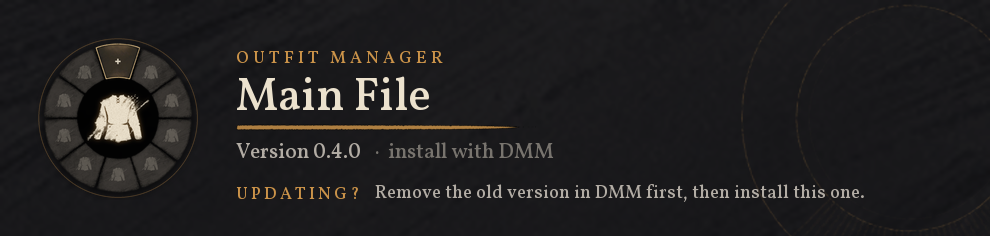
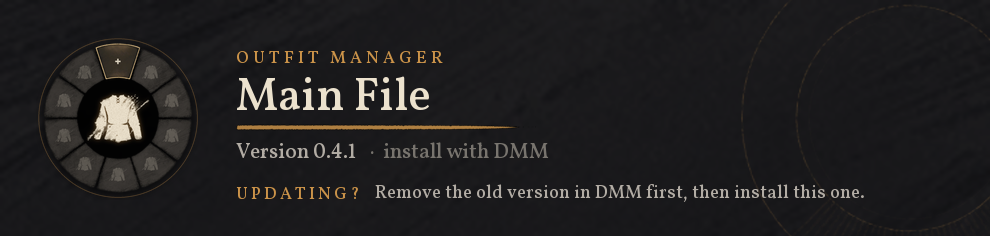
Outfit Manager 0.4.1: character-switch visibility fix, crossed weapons, loss check
Source synced from the 0.4.1 source zip, CHANGELOG entry, file cards for 0.4.1.

Changed region(s): [[0.3333, 0.5932, 0.5758, 0.6822]]

diff --git a/src/outfit_manager.cpp b/src/outfit_manager.cpp
@@ -1140,6 +1140,7 @@ bool in_depth(U64 self)
 
 void save_outfits();
 void publish_looks(const Store& s); // (Appearance)
+U16 current_character(); // (the controlled character: below)
 void mark_worn(int index);
 extern bool g_stash;
 std::atomic<U32> g_peek_key{0};           // the Outfit Arc's key (a virtual-key code; 0 = Off)
@@ -1785,13 +1786,17 @@ void apply_outfit_slots(U64 self, U32 only = kOutfitSlots)
     U32 visible = visible_slots();
     if (only >= kOutfitSlots) { // (the whole wheel)
         g_applied_visible = visible;
-        if (int w = find_worn_outfit(self); w != g_worn_outfit) {
+        // (during a character switch the worn gear is already the new character's while the list is still the old
+        // one's: comparing them would read as "a new set" and drop the old character's looks, 2026-11-06)
+        U16 now_char = current_character();
+        bool same_char = now_char == kNoCharacter || g_character == kNoCharacter || now_char == g_character;
+        if (int w = same_char ? find_worn_outfit(self) : g_worn_outfit; w != g_worn_outfit) {
             LOG("worn outfit: %d -> %d", g_worn_outfit, w);
             g_worn_outfit = w;
             g_worn_changed = true;
             if (w >= 0) mark_worn(w); // (put together by hand: its looks apply too; none worn keeps the last loaded)
         }
-        update_plus_icon(self);
+        if (same_char) update_plus_icon(self);
         refresh_missing(self);
         U64 body = rp(rp(rp(self + kOffRootBodies) + tab * 8ull) + 8);
         bool list_ok = body && is_element(body) && swap_class(body, g_list_class, numbered("om-list-%u", visible));
@@ -3268,6 +3273,7 @@ void update_plus_icon(U64 self)
     g_plus_icon.clear();
     g_amber = false;
     if (g_worn_outfit >= 0) return;
+    if (U16 ch = current_character(); ch != kNoCharacter && g_character != kNoCharacter && ch != g_character) return; // (switching)
     WornRaw w[kWornMax];
     int n = read_worn(self, w, kWornMax);
     if (int a = anchor_outfit(); a >= 0) {
@@ -3321,18 +3327,44 @@ bool snapshot(U64 self, Outfit& o)
     return true;
 }
 
+// The two hands' weapon slots (equipment-0: MainWeapon_*_R, equipment-1: MainWeapon_*_L). Two one-handed weapons worn
+// in each other's hands count as the outfit's (2026-11-06, a player's log: the game refuses to take either off -
+// "no items available to be equipped after removal" - so a load could never swap them back; every load ended 18 of 20
+// and the outfit showed as modified).
+constexpr U16 kHandR = 0, kHandL = 1;
+
+// Are slot's (a hand) and the other hand's worn weapons the outfit's, crossed?
+bool hands_crossed(const Outfit& o, const WornRaw* w, int n, U16 slot)
+{
+    if (slot != kHandR && slot != kHandL) return false;
+    U16 other = slot == kHandR ? kHandL : kHandR;
+    const WornRaw *ws = nullptr, *wo = nullptr;
+    for (int k = 0; k < n; ++k) {
+        if (w[k].slot == slot) ws = &w[k];
+        if (w[k].slot == other) wo = &w[k];
+    }
+    const OutfitItem *ts = outfit_piece(o, slot), *to = outfit_piece(o, other);
+    return ws && wo && ts && to && ws->key != 0xFFFF && wo->key != 0xFFFF && ts->uid != to->uid &&
+           ws->uid == to->uid && ws->key == to->key && wo->uid == ts->uid && wo->key == ts->key;
+}
+
 // The same pieces in the same slots (by uid: a duplicate of a piece is another piece). The weapon slots count only
-// when both load weapons (an outfit set to Leave, or saved before weapons, matches on its armour).
+// when both load weapons (an outfit set to Leave, or saved before weapons, matches on its armour). The two hands'
+// weapons also match crossed (hands_crossed).
 bool same_pieces(const Outfit& a, const Outfit& b)
 {
     bool weapons = uses_weapons(a) && uses_weapons(b);
-    auto pieces = [&](const Outfit& o) {
+    auto pieces = [&](const Outfit& o, bool swap) {
         std::vector<std::pair<U16, U64>> v;
-        for (const OutfitItem& it : o.items)
-            if (weapons || !is_weapon_slot(it.slot)) v.push_back({it.slot, it.uid});
+        for (const OutfitItem& it : o.items) {
+            if (!weapons && is_weapon_slot(it.slot)) continue;
+            U16 sl = swap && it.slot == kHandR ? kHandL : swap && it.slot == kHandL ? kHandR : it.slot;
+            v.push_back({sl, it.uid});
+        }
+        std::sort(v.begin(), v.end());
         return v;
     };
-    return pieces(a) == pieces(b);
+    return pieces(a, false) == pieces(b, false) || (weapons && pieces(a, false) == pieces(b, true));
 }
 
 // The saved outfit whose pieces are the worn ones, or -1.
@@ -4552,6 +4584,7 @@ bool verify_loading(U64 self, const Outfit& o, const std::vector<U16>& leave, bo
         ++counted;
         const OutfitItem* t = outfit_piece(o, w[i].slot);
         bool ok = t ? w[i].key == t->key && w[i].uid == t->uid : w[i].key == 0xFFFF;
+        ok |= hands_crossed(o, w, n, w[i].slot); // (its weapons in each other's hands: as worn)
         match += ok;
         if (!ok) {
             char b[128];
@@ -4578,13 +4611,21 @@ struct DeferredEquip {
     std::string from; // whose it was
     bool held = false; // refused while another piece held its slot: put on once the game lets go of the slot
 };
+// A worn piece a load takes off or replaces: after the load it must still be worn or in a bag (lost_check).
+struct LeavingPiece {
+    U64 uid;
+    U16 key;
+    U16 slot;
+};
 struct AsyncLoad {
     std::string outfit; // checked: the list may change meanwhile
     std::vector<U16> leave;
     std::vector<DeferredEquip> equips;
     U64 started = 0;
     bool active = false;
+    std::vector<LeavingPiece> leaving;
 };
+void lost_check(U64 self, const std::string& outfit, const std::vector<LeavingPiece>& leaving); // (below)
 AsyncLoad g_async;
 struct Outfit;
 void stash_pieces(U64 self, const Outfit* loaded); // (when a load is done)
@@ -4922,6 +4963,7 @@ void load_outfit(U64 self, U32 index, const std::vector<U16>& leave = {}, const 
     look_hold(true); // (until the model swaps: the old pieces keep their looks, the new ones hide at once)
     mark_worn(static_cast<int>(index)); // (its looks: each piece as soon as it is on)
     std::vector<LoadStep> off, on;
+    std::vector<LeavingPiece> leaving; // the worn pieces this load replaces or takes off (must still be owned after)
     std::set<U16> keep_slots; // (slots the game refuses to empty: asking only brings its error message and a wait)
     {
         std::lock_guard<std::mutex> keys(g_keys_mu);
@@ -4938,6 +4980,10 @@ void load_outfit(U64 self, U32 index, const std::vector<U16>& leave = {}, const 
             t ? t->key : 0xFFFF, t ? item_name(t->key).c_str() : "", t ? t->uid : 0,
             kept ? " (a taken piece comes here)" : left ? " (outfit piece unavailable)" : "");
         if (kept || (worn && t && w[i].uid == t->uid && w[i].key == t->key)) continue;
+        if (hands_crossed(o, w, n, w[i].slot)) { // (its weapons, in each other's hands: left as they are)
+            LOG("  equipment-%u: the outfit's weapon is in the other hand; left as it is", w[i].slot);
+            continue;
+        }
         if (left) {
             if (worn && !keep_slots.count(w[i].slot)) off.push_back({false, w[i].slot, w[i].key, w[i].uid}); // not the outfit's: off
             continue;
@@ -4946,6 +4992,7 @@ void load_outfit(U64 self, U32 index, const std::vector<U16>& leave = {}, const 
         for (const OutfitItem& it : o.items) needed |= worn && it.uid == w[i].uid && it.key == w[i].key;
         if (worn && (needed || (!t && !keep_slots.count(w[i].slot)))) off.push_back({false, w[i].slot, w[i].key, w[i].uid});
         if (t) on.push_back({true, t->slot, t->key, t->uid});
+        if (worn && (t || !keep_slots.count(w[i].slot))) leaving.push_back({w[i].uid, w[i].key, w[i].slot}); // (checked after)
     }
     if (off.empty() && on.empty() && !g_async.active) {
         LOG("load \"%s\": already worn", o.name.c_str());
@@ -4957,8 +5004,14 @@ void load_outfit(U64 self, U32 index, const std::vector<U16>& leave = {}, const 
     off.insert(off.end(), on.begin(), on.end());
     std::vector<DeferredEquip> held;
     g_steps_ok = 0;
+    std::set<U16> refused; // (slots whose take-off the game refused: nothing goes on there in this load)
     for (size_t i = 0; i < off.size(); ++i) {
+        if (off[i].equip && refused.count(off[i].slot)) {
+            LOG("  step %zu: put on equipment-%u skipped: its take-off was refused", i + 1, off[i].slot);
+            continue;
+        }
         if (!run_step(off[i], i + 1)) break;
+        if (!off[i].equip && g_step_err) refused.insert(off[i].slot);
         if (!off[i].equip || !g_step_err || g_step_err == kFault) continue;
         U64 e = slot_claim(off[i].slot);
         if (!e) continue; // (refused for another reason: verify reports it)
@@ -4974,6 +5027,7 @@ void load_outfit(U64 self, U32 index, const std::vector<U16>& leave = {}, const 
     // reach the worn list late when there are many (11 take-offs checked at once: "1 of 11").
     g_async = {o.name, leave, std::move(g_async.equips), GetTickCount64(), true};
     for (DeferredEquip& d : held) g_async.equips.push_back(std::move(d));
+    g_async.leaving = std::move(leaving);
 }
 
 // --- Centre tooltip -----------------------------------------------------------------------------
@@ -6588,10 +6642,36 @@ void pump_async(U64 self)
     }
     if (!g_async.equips.empty() || acted) return;
     if (verify_loading(self, *it, g_async.leave, late) || late) {
+        lost_check(self, g_async.outfit, g_async.leaving);
         g_async = {};
         look_settled();
         stash_pieces(self, &*it);
     }
+}
+
+// After a load: every piece it took off or replaced must still be somewhere (worn, a bag, a companion). One that is
+// nowhere was lost by the game on the way to the bag (2026-11-06, a player's log: a piece swapped out by a load
+// vanished; it couldn't be spawned again and came back after a restart, so the game still had it, in no bag). Named
+// in the log, and the player is told: restarting without saving brings it back.
+void lost_check(U64 self, const std::string& outfit, const std::vector<LeavingPiece>& leaving)
+{
+    if (leaving.empty()) return;
+    std::vector<Owned> owned;
+    if (!read_owned(self, owned)) {
+        LOG("load \"%s\": loss check skipped (inventory unreadable)", outfit.c_str());
+        return;
+    }
+    int lost = 0;
+    for (const LeavingPiece& p : leaving) {
+        bool found = false;
+        for (const Owned& x : owned) found |= x.uid == p.uid && x.key == p.key;
+        if (found) continue;
+        ++lost;
+        LOG("load \"%s\": LOST: key %u \"%s\" uid %llX left equipment-%u and is in no bag; the game still holds it "
+            "(restart without saving)", outfit.c_str(), p.key, item_name(p.key).c_str(), p.uid, p.slot);
+        notify(self, lang::f("toast.piece_lost", {{"piece", item_name(p.key)}}));
+    }
+    LOG("load \"%s\": loss check: %zu piece(s) left their slots, %d lost", outfit.c_str(), leaving.size(), lost);
 }
 
 // --- Stash: after a load, every saved piece (any outfit, any character) left in the carried bag goes to storage,

diff --git a/CHANGELOG.md b/CHANGELOG.md
@@ -2,6 +2,18 @@
 
 Outfit Manager for Crimson Desert. Downloads: [Nexus Mods](https://www.nexusmods.com/crimsondesert/mods/4029) or this repository's [releases](https://github.com/Yorivel/outfit-manager-nexus/releases).
 
+## 0.4.1 (2026-11-06)
+
+- Fix: hidden pieces showed again on the character you switch away from (switching Kliff, Damiane and Oongka through the gear wheel). The wheel compared the new character's gear with the old character's outfits, took it for a new set and dropped that character's visibility settings. Thanks for the report!
+- Fix: two one-handed weapons worn in each other's hands. The game refuses to take either off, so every load left both hands as they were, ended with "18 of 20" in the log and the outfit showed as changed (amber). Weapons swapped between the hands now count as the outfit's: loads leave them alone and the outfit shows as worn.
+- Safety: after every load the mod checks that each piece it took off or swapped out is still worn, in a bag or with a companion. If the game loses one on the way to your bags, you get a message telling you not to save (restarting the game brings it back), and the log names the piece. This is for a rare case where a piece swapped out by a load vanished: it could not be spawned again and came back after a restart. We could not reproduce it, so this catches it and tells you, and the next log will show exactly which step lost it.
+- Safety: if the game refuses to take a piece off during a load, nothing is put on in that slot in the same load.
+- Translations: the new message in all 15 languages.
+- Technical: the character switch: the wheel's refresh and the "+" slot's check now skip the worn-outfit comparison while the controlled character isn't the one whose outfit list is loaded (the model-swap recheck already did). The race: the wheel refreshed in the 15 ms between the switch and the mod picking up the new character's list.
+- Technical: hands_crossed(): equipment-0 / equipment-1 (MainWeapon_*_R / _L) holding the outfit's two weapons crossed count as matching in the load, its check ("slots match") and the worn-outfit detection.
+- Technical: the loss check runs when a load is done, before Stash moves anything, against the same inventory read as the missing-pieces question (worn, every bag, companions); log line "loss check: N piece(s) left their slots, M lost".
+- Tested on: Crimson Desert 1.0.0.3549 (Steam build 26448710) with DMM 4.7.3.
+
 ## 0.4.0 (2026-11-06)
 
 - New: the Outfit Arc. Hold a key and your outfits fan out on an arc beside your character; scroll to pick one and let go to wear it, without opening the gear wheel. It opens on the outfit you're wearing and wraps around, in the same order as the Outfits tab. If what you wear isn't a saved outfit, a "Current Outfit" entry comes first, and letting go on it changes nothing.

diff --git a/BUILDING.md b/BUILDING.md
@@ -1,4 +1,4 @@
-# Outfit Manager 0.4.0: source
+# Outfit Manager 0.4.1: source
 
 Source of [Outfit Manager](https://www.nexusmods.com/crimsondesert/mods/4029) for Crimson Desert, by Strahlimeier.
 MIT licence (see `LICENSE.txt`); MinHook keeps its own BSD licence (`THIRD-PARTY-MinHook-LICENSE.txt`).
